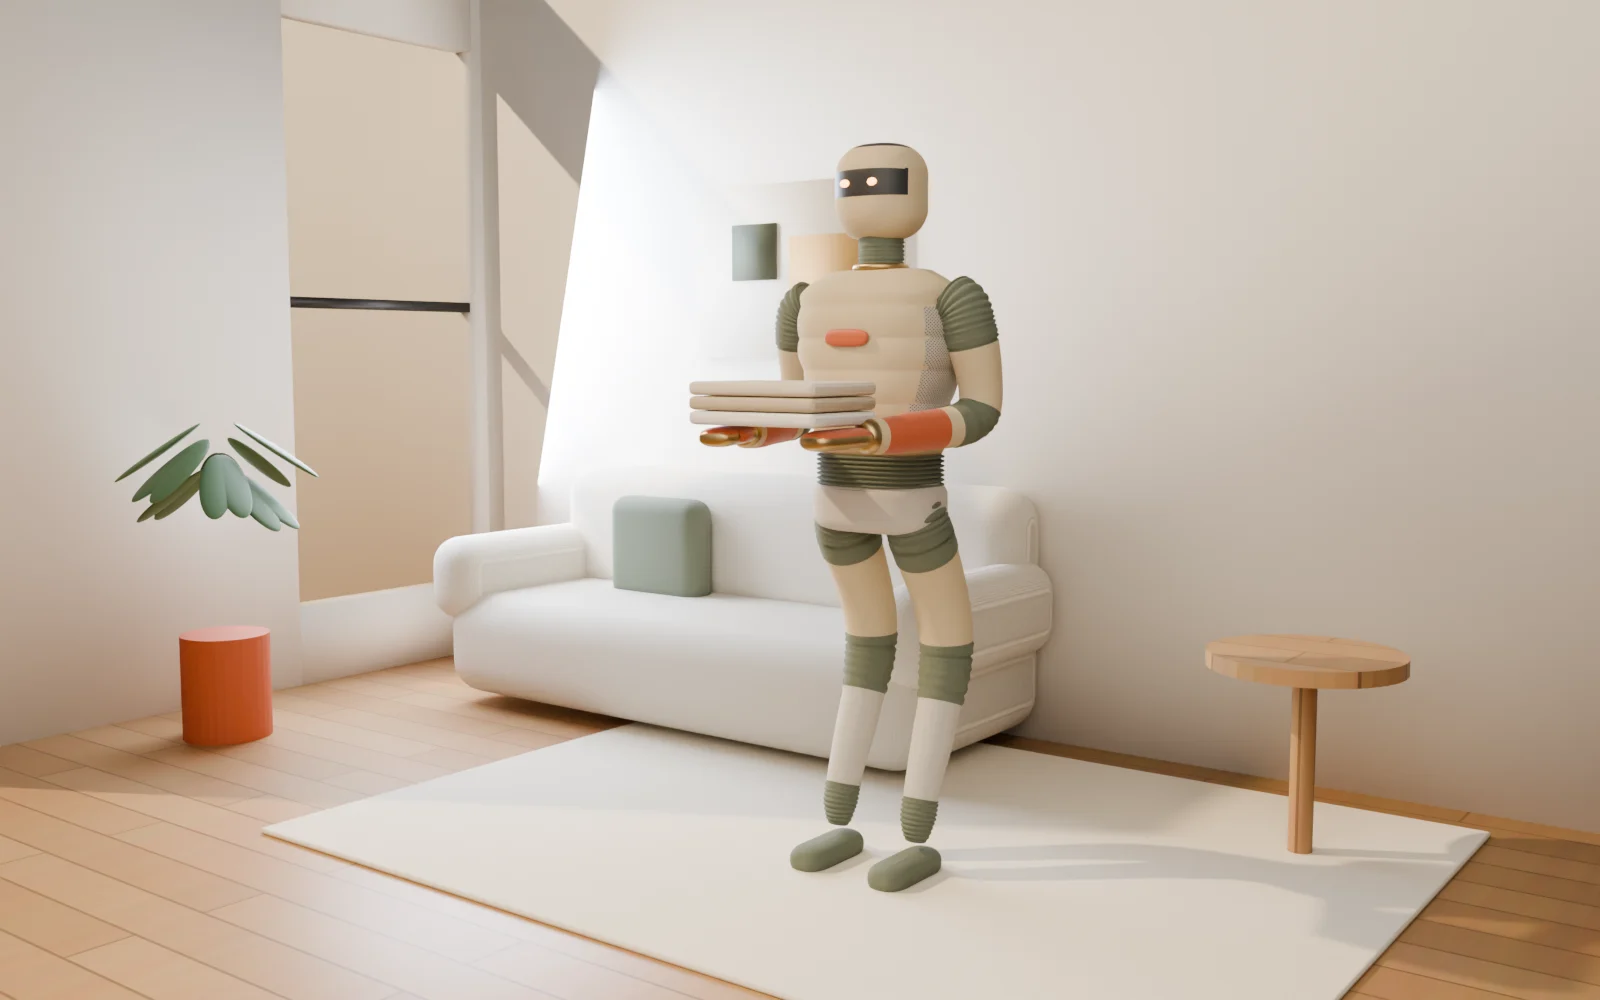
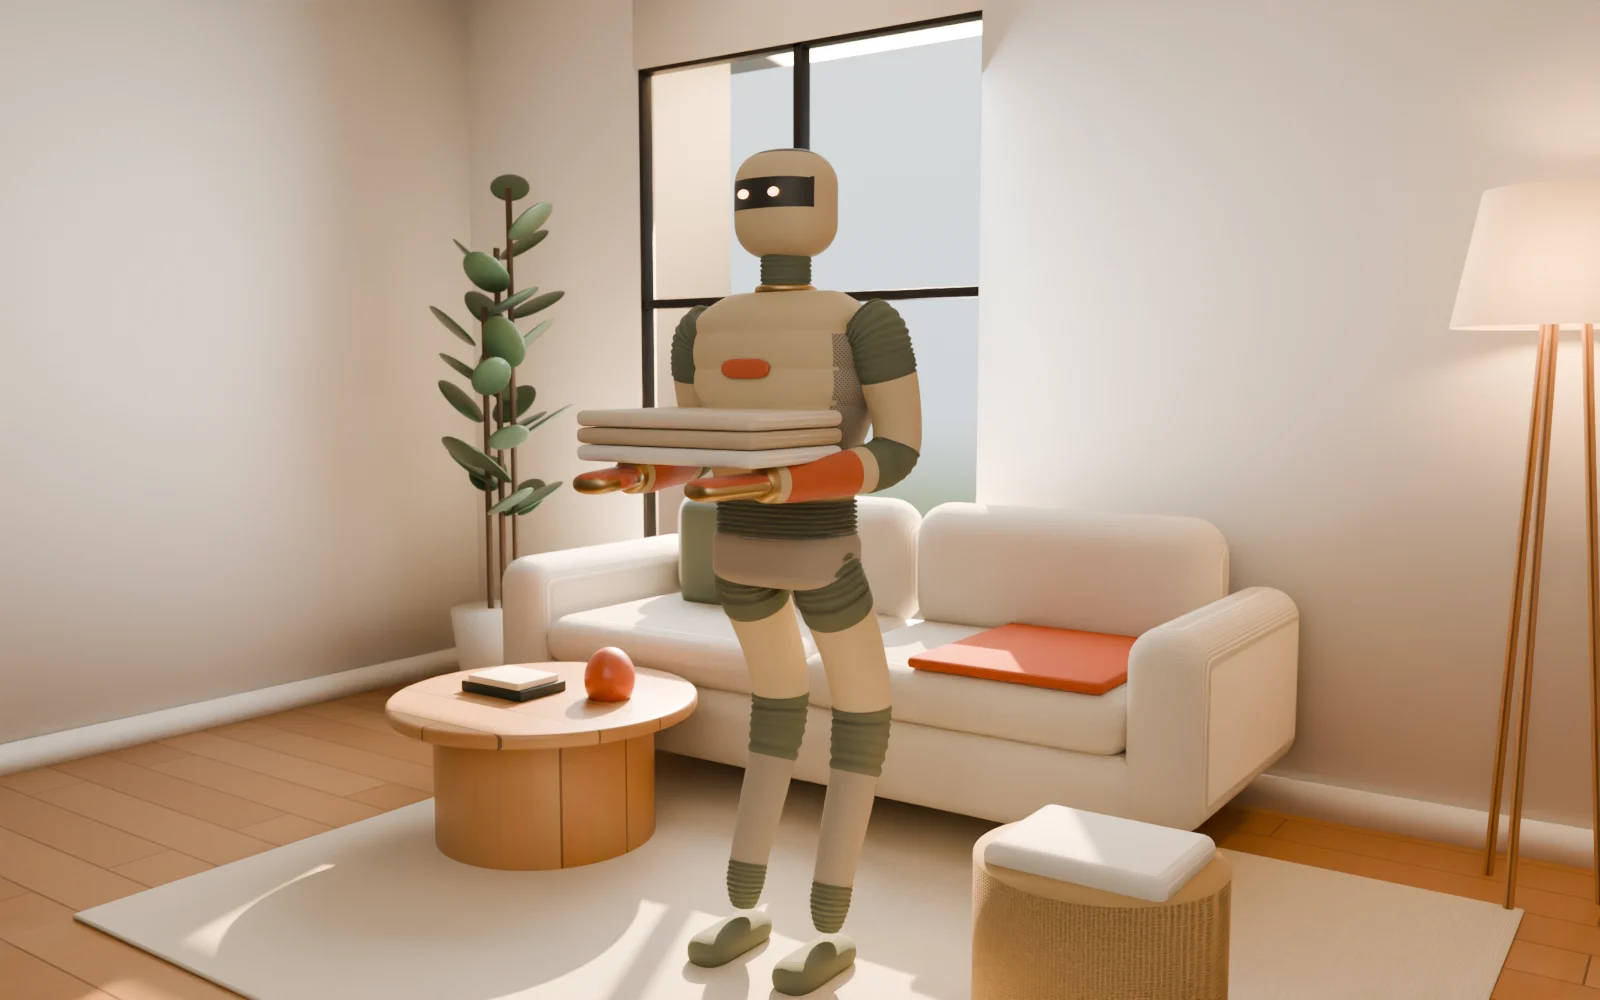
v49: Penny Loafer re-rendered from the Rhino file (Cycles, 3 colourways, exploded tech pack); HESTIA home scene rebuilt
Claude-Session: https://claude.ai/code/session_01TNyScxA4ueG31KUfSXNFLU

diff --git a/index.html b/index.html
@@ -555,6 +555,11 @@ button.btn{cursor:pointer}
 .nk-map u{display:inline-block;width:12px;height:12px;border-radius:50%;border:1px solid var(--grid)}
 .nk-mapw{overflow-x:auto}
 @media(max-width:820px){.nk-grid{grid-template-columns:1fr;gap:36px}.nk-did li{grid-template-columns:40px 1fr;font-size:16px}.nk-map{min-width:640px}}
+/* v49: penny loafer */
+.lf-bom{list-style:none;margin:0;padding:0;align-self:center}.lf-bom li{display:grid;grid-template-columns:44px 140px 1fr;gap:12px;align-items:baseline;padding:14px 0;border-top:1px solid var(--grid)}
+.lf-bom b{font:700 12px ui-monospace,Menlo,monospace;background:#ff5a1f;color:#000;padding:3px 6px;justify-self:start}.lf-bom span{font-weight:700;text-transform:uppercase;letter-spacing:.03em}.lf-bom em{font-family:var(--serif);color:var(--muted)}
+.lf-cw{display:grid;grid-template-columns:repeat(3,minmax(0,1fr));gap:20px;padding-top:28px}@media (max-width:900px){.lf-cw{grid-template-columns:1fr}}.lf-cw figure{margin:0}.lf-cw img{display:block;width:100%;height:auto}
+.lf-cw figcaption{font-family:var(--serif);font-style:italic;color:var(--muted);margin-top:6px}.lf-cw figcaption b{font-family:var(--sans);font-style:normal;text-transform:uppercase;color:var(--black);margin-right:8px}
 /* v48: HESTIA */
 .hs-hero{display:grid;grid-template-columns:minmax(0,4fr) minmax(0,6.4fr);gap:20px;align-items:stretch}
 .hs-hero .media{aspect-ratio:auto}.hs-hero .media img{height:100%;object-fit:cover}
@@ -1241,11 +1246,11 @@ const S3 = D.s3.map(s=>({...s,id:'studio-'+slug(s.title)}));
 const NEW = [{"id": "fold-bake", "title": "Fold / Bake", "meta": "Printable parchment cookbook · 13 recipes, A3", "note": "A cookbook where every page is a cooking sheet. Print it on baking parchment, lay each ingredient on its true-size outline, fold the page over the food, crimp the edges and bake. The drawing shows exactly how much to use: no scales, no measuring cups, and it works in a full oven, a fan oven, a toaster oven or an air fryer.", "tags": ["Vector illustration", "Illustrator + Rhino", "True-scale templates", "Editorial layout", "First chapter: Colombia"], "imgs": [["img/new__fb-colombia-cover.webp", 1600, 1132, "Chapter opener: Colombia, five parchment recipes"], ["img/new__fb-pescado.webp", 1600, 1132, "CO-01 Pescado al Coco: recipe, oven guide and true-size outlines on one sheet"], ["img/new__fb-shrimp-detail.webp", 1600, 566, "Shrimp, Corn & Chorizo: every ingredient drawn at true size"], ["img/new__fb-intro.webp", 1600, 1132, "How the book works: lay food on the outlines, fold, crimp, bake"], ["img/new__fb-chorizo.webp", 1600, 1132, "CO-03 Chorizo con Papa Criolla"], ["img/new__fb-salmon.webp", 1600, 1132, "No. 01 Lemon-Dill Salmon"], ["img/new__fb-pear.webp", 1600, 1132, "No. 07 Honey Pear & Walnut: dessert from the same fold"], ["img/new__fb-maduro.webp", 1600, 1132, "CO-05 Maduro con Queso y Bocadillo"]]}, ...D.new];
 
 const NEWRH=[
- {id:'penny-loafer',isNew:true,kind:'Footwear',title:'Penny Loafer',meta:'Footwear surfacing · Rhino 9 · 7 materials',
+ {id:'penny-loafer',isNew:true,kind:'Footwear',title:'Penny Loafer',meta:'Footwear surfacing · Rhino 9 · Blender Cycles · 3 colourways',
   note:'A left and right pair of penny loafers modeled in Rhino: moc-toe upper with raised piping, a saddle strap with its penny slot, side stitch details, a padded footbed, a contrast heel tab and a flat rubber outsole.',
-  facts:[['Course','Master in Parametric Design · Unit 1'],['Parts','Upper, strap, piping, heel tab, stitching, footbed, outsole'],['Output','Left + right pair, one material per part'],['Software','Rhino 9 · Rendered display']],
+  facts:[['Course','Master in Parametric Design · Unit 1'],['Parts','Upper, strap, piping, heel tab, stitching, footbed, outsole'],['Output','Left + right pair, one material per part'],['Software','Rhino 9 (model) · Blender Cycles (render)']],
   tags:['Footwear','NURBS surfacing','Material per part','Four-view checks'],
-  imgs:[['img/lf__hero.webp',1600,1120,'Rendered pair: brown upper, tan footbed, blue heel tab'],['img/lf__top.webp',883,678,'Top view: moc-toe outline, strap and penny slot'],['img/lf__side.webp',884,346,'Side profile: strap height, stitch details and outsole'],['img/lf__heel.webp',769,307,'Heel view: contrast heel tab and collar shape'],['img/lf__wire.webp',1800,790,'Wireframe in four views: isocurves follow the last shape'],['img/lf__mixed.webp',1800,790,'Wireframe checks next to the rendered perspective']]},
+  imgs:[['img/lf__r_hero.webp',1600,1100,'Your pair in cognac full-grain leather, suede footbed, blue heel tab and rubber outsole, rendered in Blender Cycles from the original Rhino file'],['img/lf__r_heel.webp',1400,1000,'Heel view: the contrast heel tab and piped collar'],['img/lf__r_detail.webp',1200,1200,'Close-up: pebble grain, the strap edge and the four side stitches'],['img/lf__r_top.webp',1200,1400,'Top view: moc-toe outline, saddle strap and penny slot'],['img/lf__wire.webp',1800,790,'The Rhino file in four wireframe views: isocurves follow the last shape'],['img/lf__r_hero_bone.webp',1600,1100,'Same file, Bone colourway: one material swap per part']]},
  {id:'f1-car',isNew:true,fit:true,kind:'Automotive',title:'F1 Car Study',meta:'Automotive surfacing · Rhino 9 · 60 surfaces, 113 polysurfaces',
   note:'A current-generation F1 car built from top, side and front views: nose and front wing, halo, sidepods, floor, rear wing and wheels, with the livery split into its own parts and materials. Checked in wireframe and edge-shaded views before the final render.',
   facts:[['Course','Master in Parametric Design · Unit 1'],['Geometry','60 surfaces · 113 polysurfaces · 88 meshes'],['Livery','Applied as separate parts and materials'],['Software','Rhino 9 · Rendered display']],
@@ -2428,9 +2433,16 @@ function ntCMF(){
 }
 const CS={
  'penny-loafer':{sub:'A classic shoe, built part by part',
+  extra:()=>`<section class="band dark section"><div class="wrap"><h2 class="sh-title" style="font-size:32px">Built Like A Tech Pack</h2><p class="sh-sub">Seven parts / One material each / Straight from the Rhino layers</p>
+   <div class="el-two"><figure class="el-fig">${im(['img/lf__r_exploded.webp',1200,1500],'Exploded loafer: outsole, suede footbed, leather upper, blue heel tab, piping, saddle strap and stitches, lifted apart in order')}<figcaption>Exploded in build order. Every part is a layer in the original Rhino file, so the render reads like a bill of materials.</figcaption></figure>
+   <ol class="lf-bom">${[['Outsole','Rubber, 9 mm, flat'],['Footbed','Suede, padded'],['Upper','Full-grain leather, moc-toe'],['Heel tab','Contrast leather'],['Piping','Rolled leather, raised'],['Strap','Saddle strap, penny slot'],['Stitching','Waxed thread, 4 per side']].map(([a,b],i)=>`<li><b>${n2(i)}</b><span>${a}</span><em>${b}</em></li>`).join('')}</ol></div>
+  </div></section>
+  <section class="band light section"><div class="wrap"><h2 class="sh-title" style="font-size:32px">Three Colourways</h2><p class="sh-sub">Same geometry / New materials / No remodel</p>
+   <div class="lf-cw">${[['cognac','Cognac','Cognac leather · blue tab · black rubber'],['oxblood','Oxblood','Oxblood leather · champagne tab · gum rubber'],['bone','Bone','Bone leather · terracotta tab · charcoal rubber']].map(([k,n,d])=>`<figure>${im(['img/lf__r_side_'+k+'.webp',1600,700],n+' colourway, side profile')}<figcaption><b>${n}</b> ${d}</figcaption></figure>`).join('')}</div>
+  </div></section>`,
   b:['A Shoe Built Like A Tech Pack','Model a full pair of penny loafers in Rhino as separate, nameable parts: upper, strap, piping, heel tab, stitching, footbed and outsole.'],
   a:['Surfaces That Follow The Shoe','The upper wraps the shoe shape, with isocurves running along it in the wireframe. The saddle strap sits over the vamp with its penny slot, piping traces the moc-toe seam, and stitch details run along the sides.'],
-  r:['Ready For Colorways','Every part carries its own material, so a new colorway is a material swap, not a remodel. The pair was checked in top, front, side and perspective views.'],
+  r:['Ready For Colorways','Every part carries its own material, so a new colorway is a material swap, not a remodel. The Rhino file went into Blender Cycles as-is and came out in three colourways.'],
   show:['For 16 years I wrote the specs that turned footwear designs into factory parts. This is the same breakdown, but I drew the parts myself.','A model split this way maps straight onto a bill of materials and a colorway sheet: one part, one material, one callout.'],
   skills:['Footwear modeling','NURBS surfacing','Part breakdown','CMF','Four-view checks'],
   st:['One part, one material:','the same breakdown','a tech pack uses.']},
